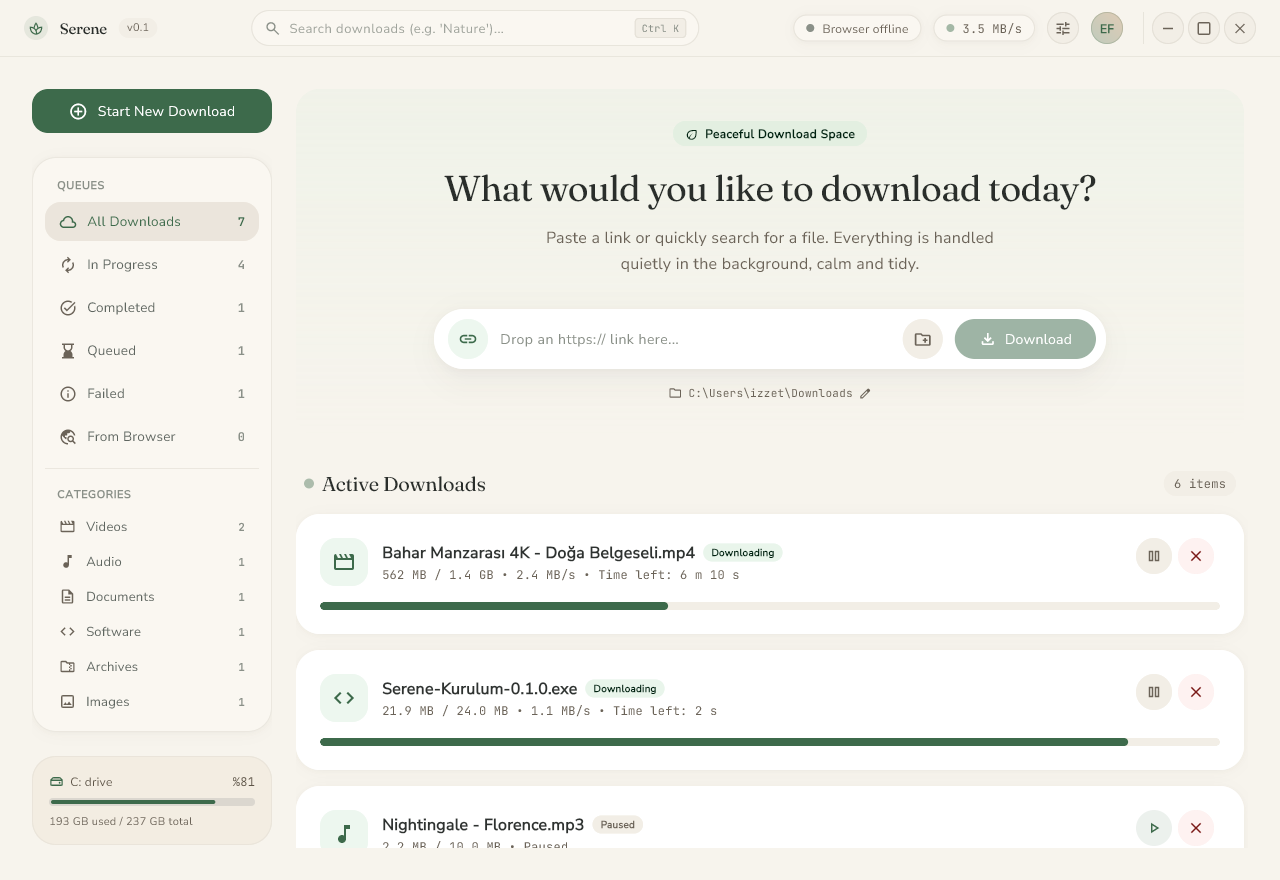
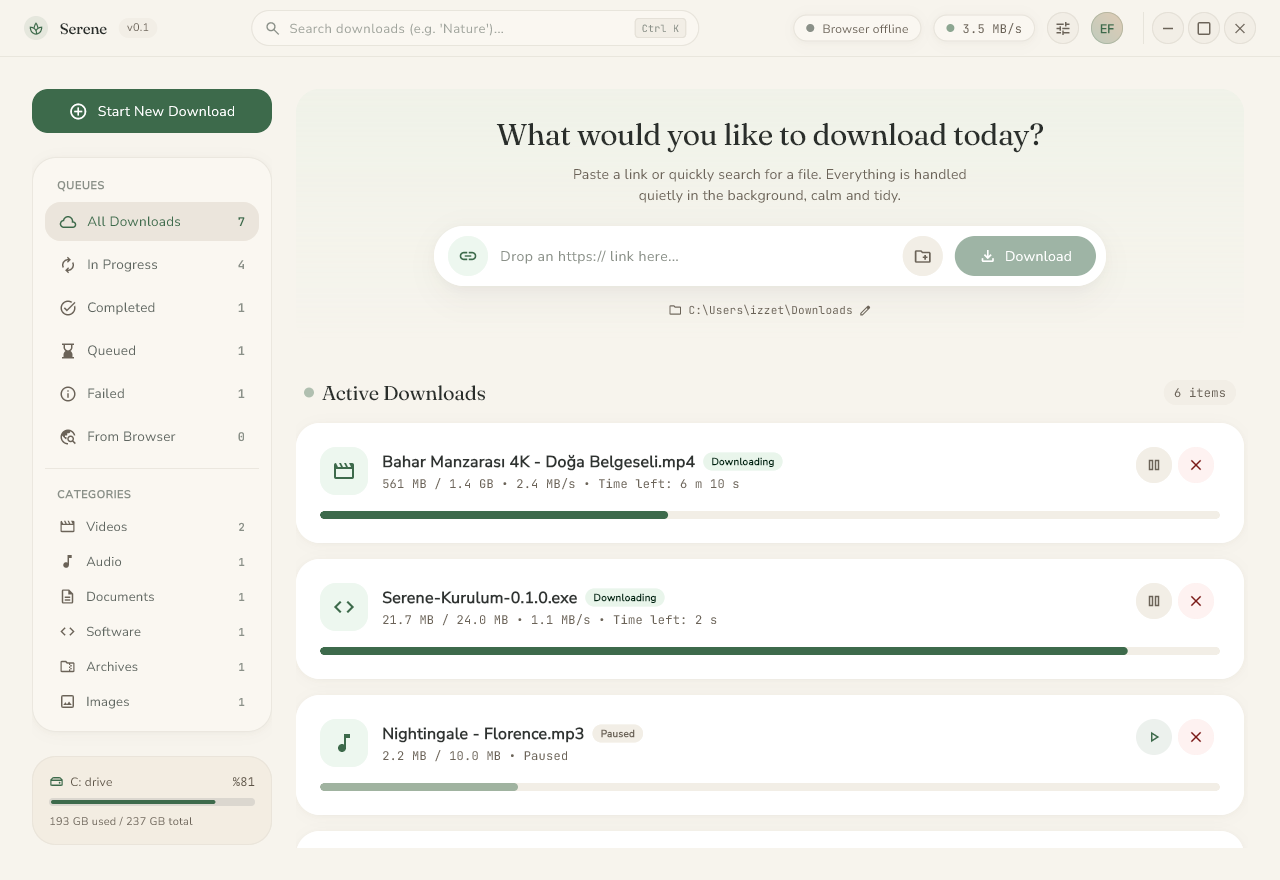
ui: drop the empty-state badge and tighten the hero (heading 36px to 30px)

diff --git a/flutter_app/lib/src/cards.dart b/flutter_app/lib/src/cards.dart
@@ -206,7 +206,7 @@ class Hero extends StatelessWidget {
   @override
   Widget build(BuildContext context) {
     return Container(
-      padding: const EdgeInsets.symmetric(horizontal: 16, vertical: 32),
+      padding: const EdgeInsets.symmetric(horizontal: 16, vertical: 24),
       decoration: BoxDecoration(
         borderRadius: BorderRadius.circular(Serene.radiusCard),
         gradient: LinearGradient(
@@ -220,45 +220,24 @@ class Hero extends StatelessWidget {
       ),
       child: Column(
         children: [
-          Container(
-            padding: const EdgeInsets.symmetric(horizontal: 12, vertical: 4),
-            decoration: BoxDecoration(
-              color: Serene.primaryFixed.withValues(alpha: 0.45),
-              borderRadius: BorderRadius.circular(999),
-            ),
-            child: Row(
-              mainAxisSize: MainAxisSize.min,
-              children: [
-                SIcon('eco', size: 14, color: Serene.onPrimaryFixed),
-                const SizedBox(width: 6),
-                Text(
-                  T.heroKicker,
-                  style: body(
-                    12,
-                    weight: FontWeight.w600,
-                    color: Serene.onPrimaryFixed,
-                    letterSpacing: 0.4,
-                  ),
-                ),
-              ],
-            ),
-          ),
-          const SizedBox(height: 16),
+          // Bos durum once bos oldugu icin baslik yeterli bir sinyal; ayrica
+          // bir rozet eklemek ayni mesaji ikinci kez soyleyip gorseli
+          // gurultuluyordu. Kaldirildi.
           Text(
             T.heroTitle,
             textAlign: TextAlign.center,
-            style: head(36, letterSpacing: -0.6, color: Serene.onBackground),
+            style: head(30, letterSpacing: -0.4, color: Serene.onBackground),
           ),
-          const SizedBox(height: 12),
+          const SizedBox(height: 8),
           ConstrainedBox(
-            constraints: const BoxConstraints(maxWidth: 448),
+            constraints: const BoxConstraints(maxWidth: 420),
             child: Text(
               T.heroBody,
               textAlign: TextAlign.center,
-              style: body(16, color: Serene.secondary, height: 1.6),
+              style: body(14, color: Serene.secondary, height: 1.5),
             ),
           ),
-          const SizedBox(height: 32),
+          const SizedBox(height: 20),
           ConstrainedBox(
             constraints: const BoxConstraints(maxWidth: 672),
             child: Container(
